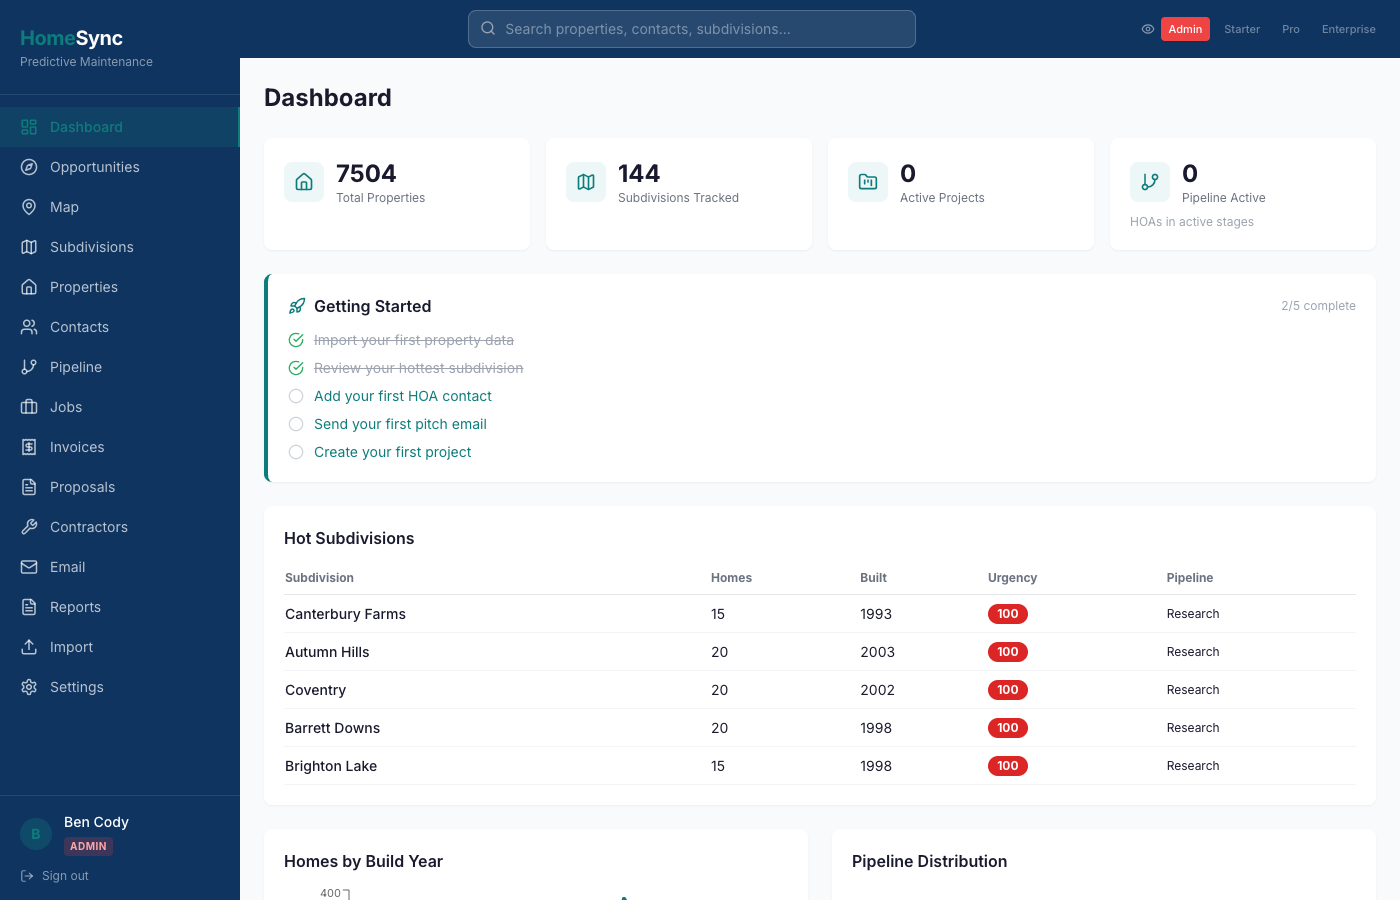
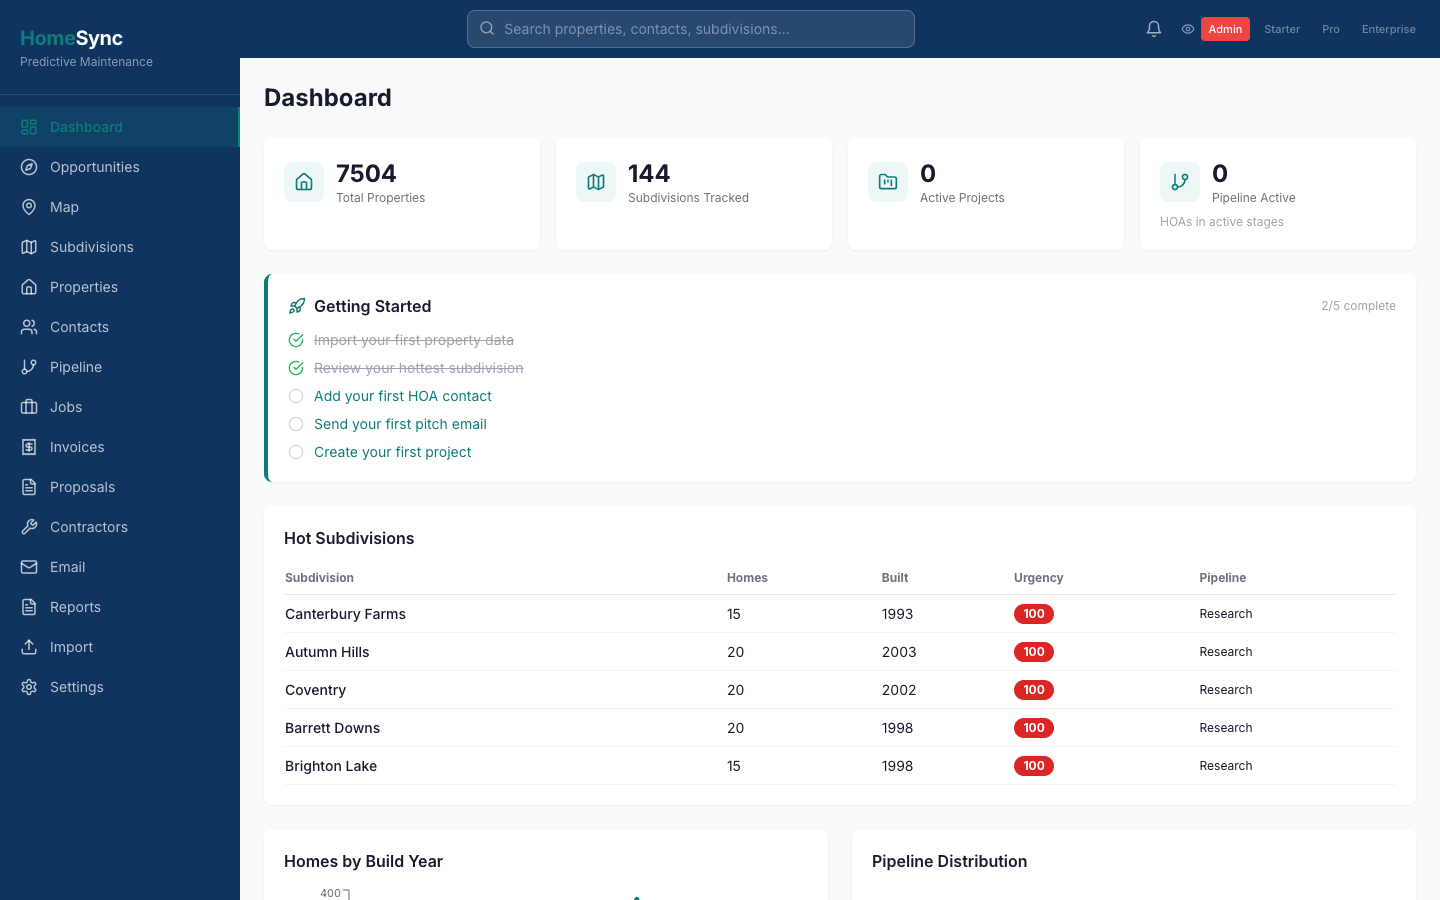
Update homepage screenshots with rich demo data
Seeded 12 leads, 8 projects, 9 invoices, 8 messages, 5 notifications,
2 campaigns. New screenshot script logs in via form, hides user section
and admin controls for clean captures.

diff --git a/scripts/seed-demo-data.js b/scripts/seed-demo-data.js
@@ -1,0 +1,210 @@
+#!/usr/bin/env node
+/**
+ * Seed rich demo data for screenshots and demos.
+ * Run: node scripts/seed-demo-data.js
+ */
+require('dotenv').config({ path: require('path').resolve(__dirname, '..', '.env') });
+const db = require('../server/db');
+
+async function seed() {
+  console.log('Seeding demo data...');
+
+  // Get or create a demo contractor user
+  let user = await db('users').where('role', 'admin').first();
+  if (!user) {
+    const bcrypt = require('bcryptjs');
+    const [id] = await db('users').insert({
+      email: 'demo@homesynctoday.com', password_hash: bcrypt.hashSync('demo1234', 12),
+      first_name: 'Ben', last_name: 'Cody', company_name: 'Cody Home Services',
+      phone: '(770) 555-0142', role: 'admin', subscription_tier: 'enterprise',
+      subscription_status: 'active', trade_category: 'General Contractor',
+      zip_code: '30004', metro_areas: '["atlanta"]',
+      address: '123 Main St', city: 'Alpharetta', state: 'GA',
+    });
+    user = await db('users').where('id', id).first();
+  }
+  // Update company info if missing
+  if (!user.company_name) {
+    await db('users').where('id', user.id).update({ company_name: 'Cody Home Services', phone: '(770) 555-0142', trade_category: 'General Contractor' });
+  }
+  const userId = user.id;
+
+  // ── Leads ──
+  // Get some real subdivision IDs for linking leads
+  const subs = await db('subdivisions').whereNotNull('latitude').orderBy('maintenance_urgency_score', 'desc').limit(12);
+  const existingLeads = await db('contractor_leads').where('user_id', userId).count('* as c').then(r => r[0].c);
+  if (existingLeads < 5 && subs.length > 0) {
+    console.log('Creating leads...');
+    const leads = [
+      { subdivision_id: subs[0]?.id, service_type: 'Roofing', stage: 'new', estimated_value: 48000, estimated_homes: 40, notes: 'Interested in group rate for 40+ homes. Board meeting next month.' },
+      { subdivision_id: subs[1]?.id, service_type: 'HVAC', stage: 'contacted', estimated_value: 8500, estimated_homes: 1, notes: 'Has 15-year-old Carrier system. Wants quote for replacement.' },
+      { subdivision_id: subs[2]?.id, service_type: 'Painting', stage: 'quoted', estimated_value: 6800, estimated_homes: 1, notes: 'Exterior repaint, 3200 sqft colonial. Sent quote $6,800.' },
+      { subdivision_id: subs[3]?.id, service_type: 'Plumbing', stage: 'negotiating', estimated_value: 12000, estimated_homes: 1, notes: 'Whole-house repipe. Comparing with 2 other contractors.' },
+      { subdivision_id: subs[4]?.id, service_type: 'Roofing', stage: 'won', estimated_value: 96000, estimated_homes: 8, notes: 'Signed contract for 8 homes. Starting next month.', won_date: daysAgo(10) },
+      { subdivision_id: subs[5]?.id, service_type: 'HVAC', stage: 'new', estimated_value: 450, estimated_homes: 1, notes: 'Referred by neighbor. Needs full system tune-up.' },
+      { subdivision_id: subs[6]?.id, service_type: 'Roofing', stage: 'contacted', estimated_value: 62500, estimated_homes: 25, notes: 'Board president. Wants to discuss bulk pricing for 25 homes.' },
+      { subdivision_id: subs[7]?.id, service_type: 'Painting', stage: 'new', estimated_value: 3200, estimated_homes: 1, notes: 'Interior paint, 4 bedrooms + living room. Move-in ready by March.' },
+      { subdivision_id: subs[8]?.id, service_type: 'HVAC', stage: 'quoted', estimated_value: 14200, estimated_homes: 1, notes: 'Dual zone system. Sent quote for $14,200 installed.' },
+      { subdivision_id: subs[9]?.id, service_type: 'Plumbing', stage: 'lost', estimated_value: 4500, estimated_homes: 1, notes: 'Went with cheaper competitor. Follow up in 6 months.', lost_reason: 'Price too high' },
+      { subdivision_id: subs[10]?.id, service_type: 'Electrical', stage: 'new', estimated_value: 2800, estimated_homes: 1, notes: 'Panel upgrade from 100A to 200A. Old Forsyth County home.' },
+      { subdivision_id: subs[11]?.id, service_type: 'Roofing', stage: 'contacted', estimated_value: 15000, estimated_homes: 1, notes: 'Storm damage assessment needed. Insurance claim in progress.' },
+    ];
+    for (const lead of leads) {
+      if (lead.subdivision_id) {
+        await db('contractor_leads').insert({ ...lead, user_id: userId, created_at: randomDate(60) });
+      }
+    }
+  }
+
+  // ── Jobs/Projects ──
+  const existingJobs = await db('contractor_jobs').where('user_id', userId).count('* as c').then(r => r[0].c);
+  if (existingJobs < 5) {
+    console.log('Creating jobs...');
+    const jobs = [
+      { title: 'Creekstone Estates — Roof Replacement (Phase 1)', status: 'in_progress', service_type: 'Roofing', client_name: 'Sarah Mitchell', client_email: 'sarah.m@email.com', client_phone: '(770) 555-1001', description: 'Group roof replacement for 12 homes in Creekstone Estates. Architectural shingles, 30-year warranty.', estimated_cost: 144000, start_date: '2026-03-15', end_date: '2026-05-01' },
+      { title: 'Park Residence — Full HVAC Replacement', status: 'in_progress', service_type: 'HVAC', client_name: 'Jennifer Park', client_email: 'jpark@email.com', client_phone: '(770) 555-1005', description: 'Replace 15-year Trane system with new Carrier Infinity 2-stage. Include ductwork inspection.', estimated_cost: 12500, start_date: '2026-03-20', end_date: '2026-03-25' },
+      { title: 'Rodriguez Home — Exterior Paint', status: 'pending', service_type: 'Painting', client_name: 'Maria Rodriguez', client_email: 'maria.r@email.com', client_phone: '(770) 555-1003', description: 'Full exterior repaint. Sherwin-Williams Duration. Pressure wash, scrape, prime, 2 coats.', estimated_cost: 6800, start_date: '2026-04-10', end_date: '2026-04-18' },
+      { title: 'Thompson Residence — Whole House Repipe', status: 'pending', service_type: 'Plumbing', client_name: 'David Thompson', client_email: 'dthompson@email.com', client_phone: '(770) 555-1004', description: 'Replace all polybutylene piping with PEX. 2800 sqft, 3.5 bath home.', estimated_cost: 12000, start_date: '2026-04-15', end_date: '2026-04-22' },
+      { title: 'Windermere HOA — Roof Inspections', status: 'completed', service_type: 'Roofing', client_name: 'Jennifer Park', client_email: 'jpark@email.com', client_phone: '(770) 555-1005', description: 'Free roof inspections for 8 homes. Generated 6 paid contracts.', estimated_cost: 0, start_date: '2026-02-01', end_date: '2026-02-15' },
+      { title: 'Foster Home — Dual Zone HVAC Install', status: 'completed', service_type: 'HVAC', client_name: 'Amanda Foster', client_email: 'afoster@email.com', client_phone: '(770) 555-1009', description: 'New Lennox dual zone system. 2 condensers, variable speed handlers.', estimated_cost: 14200, start_date: '2026-01-10', end_date: '2026-01-18' },
+      { title: 'Bethany Oaks — Gutter Replacement', status: 'in_progress', service_type: 'General Contractor', client_name: 'Lisa Anderson', client_email: 'lisa.a@email.com', client_phone: '(770) 555-1007', description: 'Seamless aluminum gutters for 10 homes. Include leaf guards.', estimated_cost: 35000, start_date: '2026-03-25', end_date: '2026-04-15' },
+    ];
+    for (const job of jobs) {
+      const [jobId] = await db('contractor_jobs').insert({ ...job, user_id: userId, created_at: randomDate(90) });
+      // Add activities
+      await db('job_activities').insert([
+        { job_id: jobId, user_id: userId, type: 'status_change', description: `Project created — ${job.status}`, created_at: randomDate(60) },
+        { job_id: jobId, user_id: userId, type: 'note', description: 'Initial client consultation completed.', created_at: randomDate(45) },
+      ]);
+    }
+  }
+
+  // ── Invoices ──
+  const existingInvoices = await db('invoices').where('user_id', userId).count('* as c').then(r => r[0].c);
+  if (existingInvoices < 5) {
+    console.log('Creating invoices...');
+    const invoices = [
+      { invoice_number: 'INV-2026-010', customer_name: 'Sarah Mitchell', customer_email: 'sarah.m@email.com', status: 'paid', total: 36000, subtotal: 36000, tax_rate: 0, tax_amount: 0, issue_date: '2026-02-15', due_date: '2026-03-15', paid_at: '2026-03-10', payment_method: 'bank_transfer', payment_terms: 'net_30', notes: 'Phase 1 deposit — 4 homes completed' },
+      { invoice_number: 'INV-2026-011', customer_name: 'Jennifer Park', customer_email: 'jpark@email.com', status: 'paid', total: 12500, subtotal: 12500, tax_rate: 0, tax_amount: 0, issue_date: '2026-03-25', due_date: '2026-04-10', paid_at: '2026-04-02', payment_method: 'card', payment_terms: 'net_15', notes: 'Full HVAC replacement — paid in full' },
+      { invoice_number: 'INV-2026-012', customer_name: 'Amanda Foster', customer_email: 'afoster@email.com', status: 'paid', total: 14200, subtotal: 14200, tax_rate: 0, tax_amount: 0, issue_date: '2026-01-18', due_date: '2026-02-01', paid_at: '2026-01-28', payment_method: 'check', payment_terms: 'net_15' },
+      { invoice_number: 'INV-2026-013', customer_name: 'Sarah Mitchell', customer_email: 'sarah.m@email.com', status: 'sent', total: 72000, subtotal: 72000, tax_rate: 0, tax_amount: 0, issue_date: '2026-04-01', due_date: '2026-05-01', sent_at: '2026-04-01', payment_terms: 'net_30', notes: 'Phase 1 balance — remaining 8 homes' },
+      { invoice_number: 'INV-2026-014', customer_name: 'Maria Rodriguez', customer_email: 'maria.r@email.com', status: 'draft', total: 6800, subtotal: 6120, tax_rate: 0.07, tax_amount: 428.40, discount_amount: 0, issue_date: '2026-04-03', due_date: '2026-04-18', payment_terms: 'net_15', notes: 'Exterior paint — deposit due before start' },
+      { invoice_number: 'INV-2026-015', customer_name: 'Lisa Anderson', customer_email: 'lisa.a@email.com', status: 'sent', total: 17500, subtotal: 17500, tax_rate: 0, tax_amount: 0, issue_date: '2026-03-28', due_date: '2026-04-28', sent_at: '2026-03-28', payment_terms: 'net_30', notes: 'Bethany Oaks gutters — 50% upfront' },
+      { invoice_number: 'INV-2026-016', customer_name: 'David Thompson', customer_email: 'dthompson@email.com', status: 'overdue', total: 6000, subtotal: 6000, tax_rate: 0, tax_amount: 0, issue_date: '2026-02-20', due_date: '2026-03-06', sent_at: '2026-02-20', payment_terms: 'net_15', notes: 'Repipe deposit — past due, follow up' },
+    ];
+    for (const inv of invoices) {
+      const [invId] = await db('invoices').insert({ ...inv, user_id: userId, amount_paid: inv.status === 'paid' ? inv.total : 0, created_at: inv.issue_date });
+      // Add line items
+      if (inv.invoice_number === 'INV-2026-010') {
+        await db('invoice_line_items').insert([
+          { invoice_id: invId, service: 'Roof Replacement', description: 'Architectural shingles, 30-yr warranty — 4 homes', quantity: 4, unit_price: 9000, amount: 36000, sort_order: 1 },
+        ]);
+      } else if (inv.invoice_number === 'INV-2026-014') {
+        await db('invoice_line_items').insert([
+          { invoice_id: invId, service: 'Pressure Washing', description: 'Full exterior pressure wash prep', quantity: 1, unit_price: 620, amount: 620, sort_order: 1 },
+          { invoice_id: invId, service: 'Exterior Paint', description: 'Sherwin-Williams Duration, 2 coats', quantity: 1, unit_price: 4800, amount: 4800, sort_order: 2 },
+          { invoice_id: invId, service: 'Trim & Detail', description: 'Window trim, shutters, doors', quantity: 1, unit_price: 700, amount: 700, sort_order: 3 },
+        ]);
+      }
+      // Status history
+      await db('invoice_status_history').insert({ invoice_id: invId, from_status: 'draft', to_status: inv.status, note: 'Created', created_at: inv.issue_date });
+    }
+  }
+
+  // ── Change Orders ──
+  const jobs = await db('contractor_jobs').where('user_id', userId);
+  if (jobs.length > 0) {
+    const existingCOs = await db('change_orders').whereIn('job_id', jobs.map(j=>j.id)).count('* as c').then(r=>r[0].c);
+    if (existingCOs < 2) {
+      console.log('Creating change orders...');
+      await db('change_orders').insert([
+        { job_id: jobs[0].id, user_id: userId, change_order_number: 'CO-01', description: 'Add ridge vent to 4 homes — client requested improved attic ventilation during roof replacement.', reason: 'Client request', cost_impact: 2400, status: 'approved', client_response: 'approved', approved_by: 'Sarah Mitchell', approved_at: randomDate(15), created_at: randomDate(30) },
+        { job_id: jobs[0].id, user_id: userId, change_order_number: 'CO-02', description: 'Upgrade to impact-resistant shingles on 2 corner lot homes.', reason: 'Client upgrade request', cost_impact: 3200, status: 'proposed', created_at: randomDate(5) },
+      ]);
+    }
+  }
+
+  // ── Messages ──
+  if (jobs.length > 0) {
+    const existingMsgs = await db('client_messages').count('* as c').then(r => r[0].c);
+    if (existingMsgs < 5) {
+      console.log('Creating messages...');
+      const msgJob = jobs[0];
+      await db('client_messages').insert([
+        { job_id: msgJob.id, sender_type: 'client', sender_name: 'Sarah Mitchell', message: 'Hi! Just wanted to check — are we still on track for starting next Monday?', created_at: daysAgo(3) },
+        { job_id: msgJob.id, sender_type: 'contractor', sender_name: 'Cody Home Services', message: 'Absolutely! The crew will be there at 8am Monday. We\'ll start with the first 4 homes on Lanier Springs Dr.', created_at: daysAgo(3, 2) },
+        { job_id: msgJob.id, sender_type: 'client', sender_name: 'Sarah Mitchell', message: 'Perfect. A few homeowners asked if you could avoid parking on the grass. The HOA is strict about that.', created_at: daysAgo(2) },
+        { job_id: msgJob.id, sender_type: 'contractor', sender_name: 'Cody Home Services', message: 'Of course — we always park on driveways and street. I\'ll remind the crew. Also, I sent over change order CO-02 for the impact-resistant shingle upgrade. Let me know if you have questions.', created_at: daysAgo(2, 1) },
+        { job_id: msgJob.id, sender_type: 'client', sender_name: 'Sarah Mitchell', message: 'Got it, I\'ll review and get back to you by end of day. Thanks for being so responsive!', created_at: daysAgo(1) },
+      ]);
+      if (jobs.length > 1) {
+        await db('client_messages').insert([
+          { job_id: jobs[1].id, sender_type: 'client', sender_name: 'Jennifer Park', message: 'The new system is working great! House has never been this comfortable. Thank you!', created_at: daysAgo(5) },
+          { job_id: jobs[1].id, sender_type: 'contractor', sender_name: 'Cody Home Services', message: 'So glad to hear that! Remember to change the filter every 3 months. I\'ll send you a reminder. If you know anyone who needs HVAC work, we\'d appreciate a referral!', created_at: daysAgo(5, 1) },
+        ]);
+      }
+    }
+  }
+
+  // ── Notifications ──
+  const existingNotifs = await db('notifications').where('user_id', userId).count('* as c').then(r => r[0].c);
+  if (existingNotifs < 3) {
+    console.log('Creating notifications...');
+    await db('notifications').insert([
+      { user_id: userId, type: 'client_message', title: 'New message from Sarah Mitchell', message: 'Sarah Mitchell sent a message on "Creekstone Estates — Roof Replacement"', link: '/messages?job=1', created_at: daysAgo(1) },
+      { user_id: userId, type: 'invoice_paid', title: 'Invoice INV-2026-002 paid!', message: 'Jennifer Park paid $12,500 on invoice INV-2026-002.', link: '/invoices/2', created_at: daysAgo(2) },
+      { user_id: userId, type: 'change_order_response', title: 'Change order CO-01 approved', message: 'Sarah Mitchell approved change order CO-01 on "Creekstone Estates — Roof Replacement".', link: '/jobs/1', created_at: daysAgo(3) },
+      { user_id: userId, type: 'portal_accessed', title: 'Jennifer Park viewed their portal', message: 'Jennifer Park accessed the client portal for "Park Residence — Full HVAC Replacement".', link: '/jobs/2', created_at: daysAgo(4) },
+      { user_id: userId, type: 'invoice_viewed', title: 'Invoice INV-2026-004 viewed', message: 'Sarah Mitchell viewed invoice INV-2026-004.', link: '/invoices/4', created_at: daysAgo(1, 3) },
+    ]);
+  }
+
+  // ── Campaigns ──
+  const existingCampaigns = await db('campaigns').where('user_id', userId).count('* as c').then(r => r[0].c);
+  if (existingCampaigns < 2) {
+    console.log('Creating campaigns...');
+    const [c1] = await db('campaigns').insert({
+      user_id: userId, name: 'Spring Roofing Season Kickoff', subject: 'Is your roof ready for spring storms?',
+      body_html: '<p>Hi {{name}},</p><p>Spring storm season is approaching. Homes built before 2005 in your area may be due for a roof inspection.</p><p>We\'re offering <strong>free inspections</strong> this month. Reply to schedule yours.</p>',
+      status: 'sent', sent_at: daysAgo(14), total_recipients: 45, total_sent: 43, total_opened: 18, total_clicked: 7,
+      created_at: daysAgo(15),
+    });
+    await db('campaigns').insert({
+      user_id: userId, name: 'HVAC Summer Prep', subject: '{{name}}, is your AC ready for Georgia summer?',
+      body_html: '<p>Hi {{name}},</p><p>Georgia summers are brutal. A tune-up now prevents expensive emergency repairs in July.</p><p>Book your pre-season tune-up: <strong>$149</strong> (regular $249).</p>',
+      status: 'draft', total_recipients: 0,
+      created_at: daysAgo(2),
+    });
+  }
+
+  console.log('Demo data seeded successfully!');
+
+  // Print summary
+  const counts = await Promise.all([
+    db('contractor_leads').where('user_id', userId).count('* as c').then(r => r[0].c),
+    db('contractor_jobs').where('user_id', userId).count('* as c').then(r => r[0].c),
+    db('invoices').where('user_id', userId).count('* as c').then(r => r[0].c),
+    db('client_messages').count('* as c').then(r => r[0].c),
+    db('notifications').where('user_id', userId).count('* as c').then(r => r[0].c),
+    db('campaigns').where('user_id', userId).count('* as c').then(r => r[0].c),
+  ]);
+  console.log(`Leads: ${counts[0]}, Jobs: ${counts[1]}, Invoices: ${counts[2]}, Messages: ${counts[3]}, Notifications: ${counts[4]}, Campaigns: ${counts[5]}`);
+
+  process.exit(0);
+}
+
+function randomDate(daysBack, hoursOffset = 0) {
+  const d = new Date();
+  d.setDate(d.getDate() - Math.floor(Math.random() * daysBack));
+  d.setHours(d.getHours() - hoursOffset);
+  return d.toISOString();
+}
+
+function daysAgo(days, hoursExtra = 0) {
+  const d = new Date();
+  d.setDate(d.getDate() - days);
+  d.setHours(d.getHours() - hoursExtra);
+  return d.toISOString();
+}
+
+seed().catch(err => { console.error(err); process.exit(1); });

diff --git a/scripts/take-homepage-screenshots.js b/scripts/take-homepage-screenshots.js
@@ -1,0 +1,92 @@
+#!/usr/bin/env node
+/**
+ * Take homepage screenshots with demo data.
+ * Hides: sidebar user section (bottom-left), admin "View As" tier switcher (top-right).
+ */
+const puppeteer = require('puppeteer');
+const path = require('path');
+
+const OUTPUT_DIR = path.resolve(__dirname, '..', 'client', 'public', 'screenshots');
+const BASE = 'http://localhost:5173';
+
+async function main() {
+  const browser = await puppeteer.launch({ headless: 'new', args: ['--window-size=1440,900'] });
+  const page = await browser.newPage();
+  await page.setViewport({ width: 1440, height: 900 });
+
+  // Go to login page and log in via form
+  console.log('Logging in via form...');
+  await page.goto(`${BASE}/#/login`, { waitUntil: 'networkidle0', timeout: 15000 });
+  await page.type('input[type="email"]', 'admin@homesync.io');
+  await page.type('input[type="password"]', 'demo1234');
+  await page.click('button[type="submit"]');
+  await page.waitForNavigation({ waitUntil: 'networkidle0', timeout: 15000 }).catch(() => {});
+  await new Promise(r => setTimeout(r, 2000));
+
+  // Verify we're logged in
+  const url = page.url();
+  console.log('  Current URL:', url);
+  if (url.includes('/login')) {
+    console.error('Login failed — still on login page');
+    await browser.close();
+    process.exit(1);
+  }
+
+  // Helper: hide sidebar user section and admin tier switcher
+  const hideUI = async () => {
+    await page.evaluate(() => {
+      // Hide sidebar user/logout section at bottom
+      const aside = document.querySelector('aside');
+      if (aside) {
+        const lastChild = aside.querySelector('.border-t');
+        if (lastChild) lastChild.style.display = 'none';
+      }
+
+      // Hide admin "View As" tier switcher buttons in top header bar
+      const topBar = document.querySelector('.bg-navy');
+      if (topBar) {
+        const flexContainers = topBar.querySelectorAll('.shrink-0');
+        flexContainers.forEach(el => {
+          const buttons = el.querySelectorAll('button');
+          if (buttons.length >= 3) {
+            el.style.display = 'none';
+          }
+        });
+      }
+
+      // Also hide notification bell for cleaner screenshots
+      const bellButtons = document.querySelectorAll('.relative button');
+      bellButtons.forEach(btn => {
+        if (btn.querySelector('svg') && btn.closest('.relative')?.querySelector('[class*="bg-red"]')) {
+          btn.closest('.relative').style.display = 'none';
+        }
+      });
+    });
+  };
+
+  const shots = [
+    { name: 'dashboard', url: `${BASE}/#/dashboard`, wait: 2000 },
+    { name: 'leads-map', url: `${BASE}/#/opportunities`, wait: 4000 },
+    { name: 'pipeline', url: `${BASE}/#/leads`, wait: 2000 },
+    { name: 'subdivision', url: `${BASE}/#/jobs`, wait: 2000 },
+    { name: 'invoice-detail', url: `${BASE}/#/invoices`, wait: 2000 },
+    { name: 'marketing', url: `${BASE}/#/email/compose`, wait: 2000 },
+  ];
+
+  for (const shot of shots) {
+    console.log(`  Capturing: ${shot.name}...`);
+    await page.goto(shot.url, { waitUntil: 'networkidle0', timeout: 15000 }).catch(() => {});
+    await new Promise(r => setTimeout(r, shot.wait || 2000));
+    await hideUI();
+    await new Promise(r => setTimeout(r, 300));
+
+    const filePath = path.join(OUTPUT_DIR, `${shot.name}.png`);
+    await page.screenshot({ path: filePath, type: 'png' });
+    console.log(`    Saved: ${filePath}`);
+  }
+
+  await browser.close();
+  console.log('\nAll screenshots captured!');
+}
+
+main().catch(err => { console.error(err); process.exit(1); });
